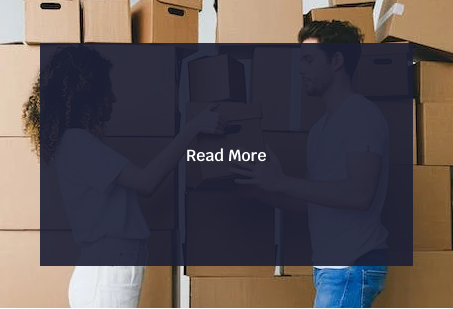
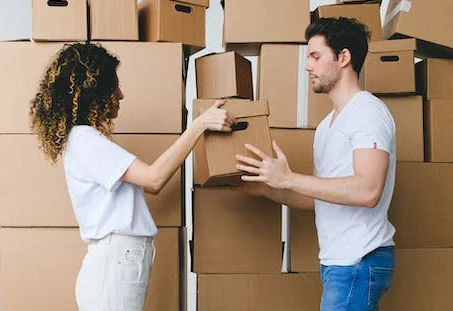
Updated Blog section

diff --git a/index.html b/index.html
@@ -484,7 +484,10 @@
         </div>
         <div class="blog-container">
             <div class="blog-box">
-                <img src="./images/blog1.png" alt="Blog 1">
+                <div class="read-more">
+                    <img src="./images/blog1.png" alt="Blog 1">
+                    <a href="#"><div class="read">Read More</div></a>
+                </div>
                 <div class="calender">
                     <img src="./images/calender.png" alt="calender">
                     <h2>08</h2>
@@ -504,7 +507,10 @@
                 </div>
             </div>
             <div class="blog-box">
-                <a href="blogsingle.html"><img src="./images/blog2.png" alt="Blog 2"></a>
+                <div class="read-more">
+                    <img src="./images/blog2.png" alt="Blog 2">
+                    <a href="blogsingle.html"><div class="read">Read More</div></a>
+                </div>
                 <div class="calender">
                     <img src="./images/calender.png" alt="calender">
                     <h2>12</h2>
@@ -526,7 +532,10 @@
                 </div>
             </div>
             <div class="blog-box">
-                <img src="./images/blog3.png" alt="Blog 3">
+                <div class="read-more">
+                    <img src="./images/blog3.png" alt="Blog 3">
+                    <a href="#"><div class="read">Read More</div></a>
+                </div>
                 <div class="calender">
                     <img src="./images/calender.png" alt="calender">
                     <h2>25</h2>

diff --git a/css/home.css b/css/home.css
@@ -631,8 +631,42 @@ header {
     border-top: 1px solid rgba(122, 122, 120, 0.3);
     display: flex;
     justify-content: space-between;
+    align-items: center;
     gap: 20px;
     padding: 20px;
+}
+
+.read-more {
+  position: relative;
+  display: inline-block;
+  overflow: hidden;
+}
+
+.read-more img {
+  display: block;
+  width: 100%;
+  /* height: 100%; */
+}
+
+.read {
+  position: absolute;
+  top: 50%;
+  left: 50%;
+  transform: translate(-50%, -50%);
+  width: 70%;
+  height: 50%;
+  background: rgba(28, 31, 53, 0.9);
+  color: #fff;
+  display: flex;
+  align-items: center;
+  justify-content: center;
+  text-align: center;
+  opacity: 0;
+  transition: opacity 0.3s ease;
+}
+
+.read-more:hover .read {
+  opacity: 1;
 }
 
 .blog-box:nth-child(3) {
@@ -711,7 +745,7 @@ header {
         grid-template-columns: repeat(2, 1fr);
     }
 
-    .blog-box img {
+    .blog-box .read-more {
         max-width: 100%;
         height: 100%;
         display: block;
@@ -764,7 +798,7 @@ header {
     .calender {
         grid-column: 1;
     }
-    .blog-box img {
+    .blog-box .read-more {
         grid-column: 1;
         grid-row: 2;
     }
